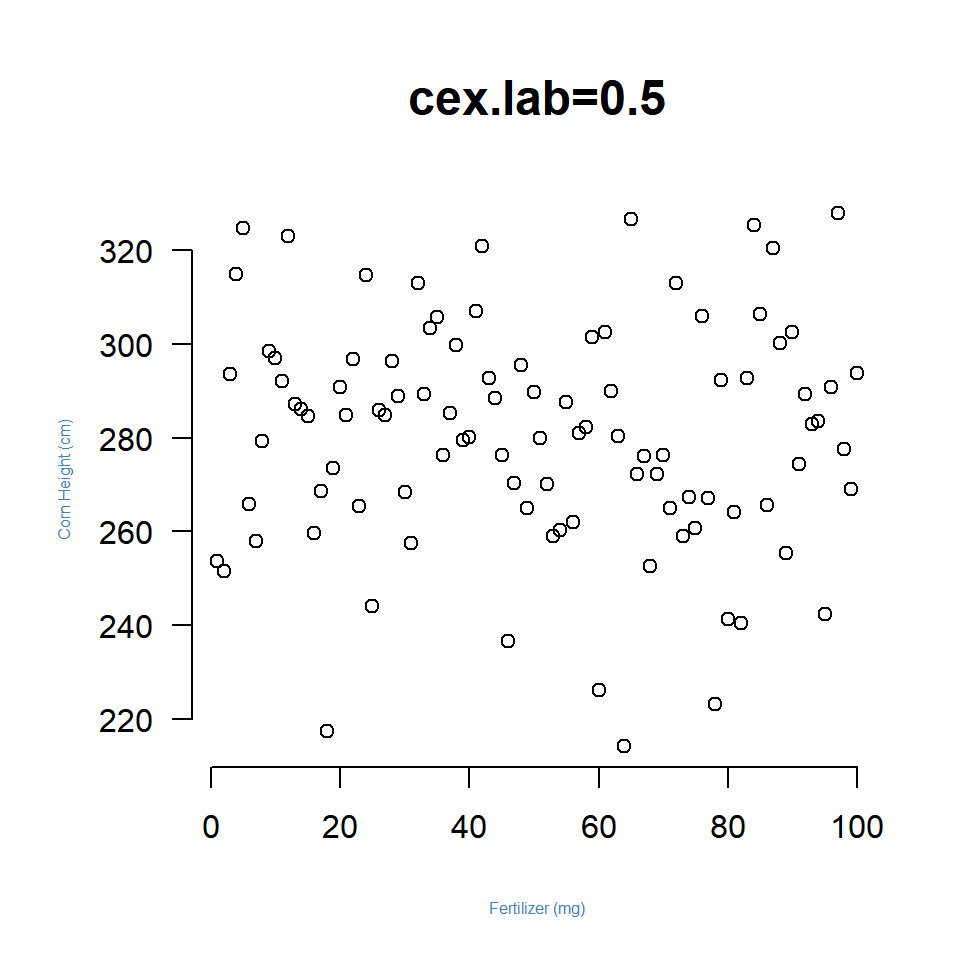
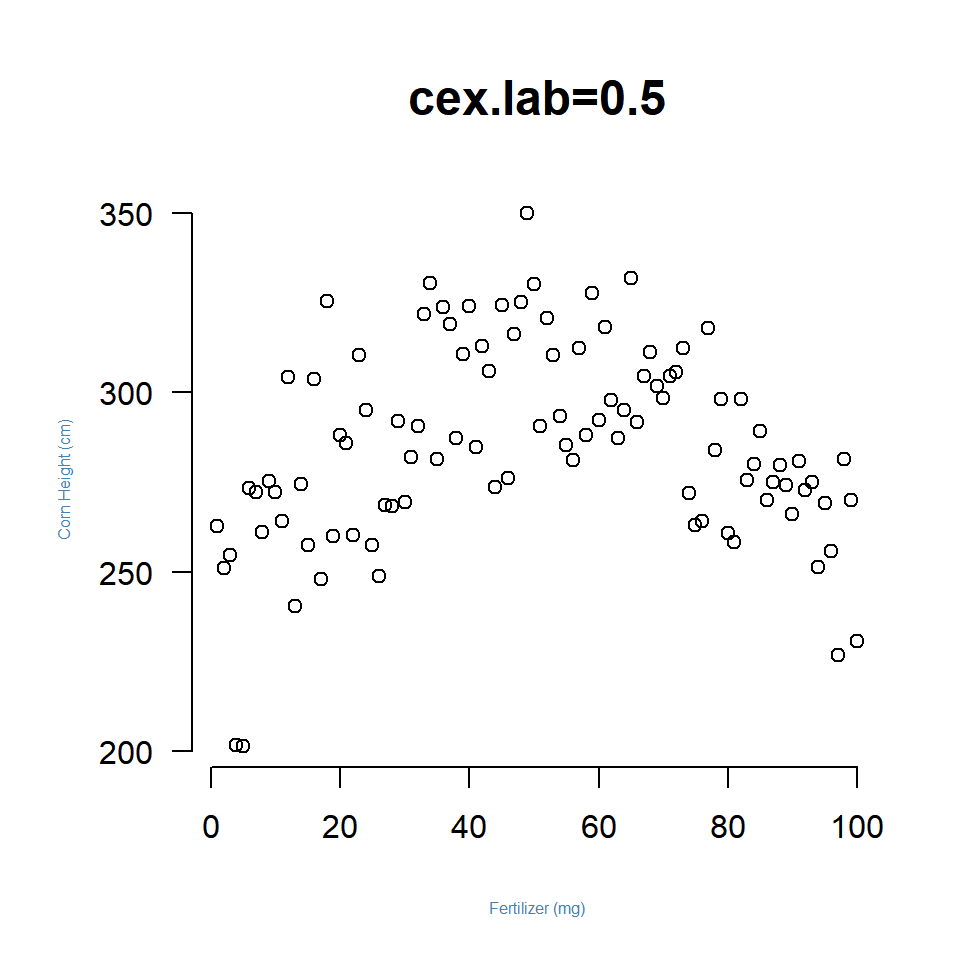
p-061

diff --git a/p-061-plot-basics.html b/p-061-plot-basics.html
@@ -291,64 +291,64 @@ $(document).ready(function () {
 </thead>
 <tbody>
 <tr class="odd">
-<td align="center">15</td>
-<td align="center">280</td>
-<td align="center">1.08</td>
-<td align="center">B</td>
+<td align="center">30</td>
+<td align="center">289</td>
+<td align="center">0.41</td>
+<td align="center">C</td>
 </tr>
 <tr class="even">
-<td align="center">87</td>
-<td align="center">259</td>
-<td align="center">0.62</td>
+<td align="center">66</td>
+<td align="center">246</td>
+<td align="center">0.79</td>
+<td align="center">A</td>
+</tr>
+<tr class="odd">
+<td align="center">14</td>
+<td align="center">288</td>
+<td align="center">0.34</td>
+<td align="center">A</td>
+</tr>
+<tr class="even">
+<td align="center">74</td>
+<td align="center">330</td>
+<td align="center">0.71</td>
 <td align="center">B</td>
 </tr>
 <tr class="odd">
-<td align="center">65</td>
-<td align="center">280</td>
-<td align="center">0.45</td>
-<td align="center">B</td>
+<td align="center">31</td>
+<td align="center">306</td>
+<td align="center">0.31</td>
+<td align="center">C</td>
 </tr>
 <tr class="even">
-<td align="center">43</td>
-<td align="center">333</td>
+<td align="center">39</td>
+<td align="center">295</td>
+<td align="center">0.78</td>
+<td align="center">B</td>
+</tr>
+<tr class="odd">
+<td align="center">99</td>
+<td align="center">240</td>
 <td align="center">0.15</td>
 <td align="center">C</td>
 </tr>
-<tr class="odd">
-<td align="center">50</td>
-<td align="center">301</td>
-<td align="center">0.32</td>
-<td align="center">A</td>
-</tr>
 <tr class="even">
-<td align="center">46</td>
-<td align="center">283</td>
-<td align="center">0.53</td>
+<td align="center">51</td>
+<td align="center">306</td>
+<td align="center">0.23</td>
 <td align="center">C</td>
 </tr>
 <tr class="odd">
-<td align="center">10</td>
-<td align="center">273</td>
-<td align="center">0.44</td>
-<td align="center">A</td>
-</tr>
-<tr class="even">
-<td align="center">2</td>
-<td align="center">272</td>
-<td align="center">0.71</td>
-<td align="center">A</td>
-</tr>
-<tr class="odd">
-<td align="center">13</td>
-<td align="center">283</td>
-<td align="center">0.81</td>
+<td align="center">58</td>
+<td align="center">287</td>
+<td align="center">0.06</td>
 <td align="center">C</td>
 </tr>
 <tr class="even">
-<td align="center">19</td>
-<td align="center">290</td>
-<td align="center">0.34</td>
-<td align="center">A</td>
+<td align="center">40</td>
+<td align="center">317</td>
+<td align="center">0.35</td>
+<td align="center">C</td>
 </tr>
 </tbody>
 </table>
@@ -366,7 +366,7 @@ eyJsYW5ndWFnZSI6InIiLCJwcmVfZXhlcmNpc2VfY29kZSI6InNvdXJjZSggXCJodHRwczovL3Jhdy5n
 <h2><span class="header-section-number">1.2</span> The Default Scatterplot</h2>
 <p>The default <strong>plot()</strong> function requires an x-variable and y-variable and will create a scatterplot, adding axes and a title:</p>
 <pre class="r"><code>plot( x=fertilizer, y=corn.height )</code></pre>
-<p><img src="p-061-plot-basics_files/figure-html/unnamed-chunk-10-1.png" width="960" /></p>
+<p><img src="p-061-plot-basics_files/figure-html/unnamed-chunk-11-1.png" width="960" /></p>
 <p>Ok, so let’s improve upon this a bit. You can use the following arguments to customize the plot:</p>
 </div>
 <div id="titles" class="section level2">
@@ -378,7 +378,7 @@ eyJsYW5ndWFnZSI6InIiLCJwcmVfZXhlcmNpc2VfY29kZSI6InNvdXJjZSggXCJodHRwczovL3Jhdy5n
       ylab=&quot;Corn Height (cm)&quot;,
       main=&quot;Relationship Between Fertilizer Intensity and Corn Growth&quot;    
     )</code></pre>
-<p><img src="p-061-plot-basics_files/figure-html/unnamed-chunk-11-1.png" width="960" /></p>
+<p><img src="p-061-plot-basics_files/figure-html/unnamed-chunk-12-1.png" width="960" /></p>
 <p>We can also change their size with <strong>cex.lab=</strong> to control the size of the axes labels, and <strong>cex.main=</strong> to control the size of the title.</p>
 <p>Note that all of the <strong>cex</strong> arguments are aspect ratios, meaning that the default value of 1 represents 100% and all other argument values are in relation to this default. A value of 2 means to increase the title to 200% of the size, an argument of 0.5 shrinks the title to half the original size.</p>
 <pre class="r"><code>plot( 
@@ -389,7 +389,7 @@ eyJsYW5ndWFnZSI6InIiLCJwcmVfZXhlcmNpc2VfY29kZSI6InNvdXJjZSggXCJodHRwczovL3Jhdy5n
       cex.lab=2,               # double the size of the axis labels
       col.lab=&quot;steelblue&quot;      # change color of axis labels
     )</code></pre>
-<p><img src="p-061-plot-basics_files/figure-html/unnamed-chunk-13-1.png" width="480" /><img src="p-061-plot-basics_files/figure-html/unnamed-chunk-13-2.png" width="480" /><img src="p-061-plot-basics_files/figure-html/unnamed-chunk-13-3.png" width="480" /></p>
+<p><img src="p-061-plot-basics_files/figure-html/unnamed-chunk-14-1.png" width="480" /><img src="p-061-plot-basics_files/figure-html/unnamed-chunk-14-2.png" width="480" /><img src="p-061-plot-basics_files/figure-html/unnamed-chunk-14-3.png" width="480" /></p>
 </div>
 <div id="type-of-plot" class="section level2">
 <h2><span class="header-section-number">1.4</span> Type of Plot</h2>
@@ -411,12 +411,12 @@ eyJsYW5ndWFnZSI6InIiLCJwcmVfZXhlcmNpc2VfY29kZSI6InNvdXJjZSggXCJodHRwczovL3Jhdy5n
       col.axis=&quot;gray60&quot;,
       frame.plot=F
     )</code></pre>
-<p><img src="p-061-plot-basics_files/figure-html/unnamed-chunk-15-1.png" width="960" /></p>
+<p><img src="p-061-plot-basics_files/figure-html/unnamed-chunk-16-1.png" width="960" /></p>
 </div>
 <div id="shape-of-points" class="section level2">
 <h2><span class="header-section-number">1.5</span> Shape of Points</h2>
 <p>The argument <strong>pch</strong> determines the shape of the plot points. The numeric values 0 to 25 represent different default shapes. We can also use any number, letter, or symbol as a plotting shape.</p>
-<p><img src="p-061-plot-basics_files/figure-html/unnamed-chunk-16-1.png" width="960" /></p>
+<p><img src="p-061-plot-basics_files/figure-html/unnamed-chunk-17-1.png" width="960" /></p>
 <p>Note that shapes 0 to 14 are hollow, 15 to 20 are solid, and 21 to 25 can also plot a background color specified by the <strong>bg=</strong> argument.</p>
 <pre class="r"><code>plot( 
       x=fertilizer, y=corn.height,
@@ -426,7 +426,7 @@ eyJsYW5ndWFnZSI6InIiLCJwcmVfZXhlcmNpc2VfY29kZSI6InNvdXJjZSggXCJodHRwczovL3Jhdy5n
       main=&quot;pch=23&quot;, cex.main=1.5,
       pch=23, col=&quot;red&quot;, bg=&quot;green&quot;
     )</code></pre>
-<p><img src="p-061-plot-basics_files/figure-html/unnamed-chunk-17-1.png" width="960" /></p>
+<p><img src="p-061-plot-basics_files/figure-html/unnamed-chunk-18-1.png" width="960" /></p>
 </div>
 <div id="size-of-points" class="section level2">
 <h2><span class="header-section-number">1.6</span> Size of Points</h2>
@@ -440,7 +440,7 @@ eyJsYW5ndWFnZSI6InIiLCJwcmVfZXhlcmNpc2VfY29kZSI6InNvdXJjZSggXCJodHRwczovL3Jhdy5n
       main=&quot;cex=2&quot;, cex.main=2,
       frame.plot=FALSE
     )</code></pre>
-<p><img src="p-061-plot-basics_files/figure-html/unnamed-chunk-19-1.png" width="480" /><img src="p-061-plot-basics_files/figure-html/unnamed-chunk-19-2.png" width="480" /><img src="p-061-plot-basics_files/figure-html/unnamed-chunk-19-3.png" width="480" /></p>
+<p><img src="p-061-plot-basics_files/figure-html/unnamed-chunk-20-1.png" width="480" /><img src="p-061-plot-basics_files/figure-html/unnamed-chunk-20-2.png" width="480" /><img src="p-061-plot-basics_files/figure-html/unnamed-chunk-20-3.png" width="480" /></p>
 <p>The <strong>cex=</strong> argument is also useful for incorporating a third numeric variable into the analysis. For example, perhaps we want to include the average moisture levels of the soil for each field. When we use a numeric vector like this with the <strong>cex=</strong> argument, instead of a single constant, the plot will adjust the size of observation based upon its measured moisture level. Since moisture values are between 0 and 1, I have scaled them by 3 to ensure the points are large enough to see.</p>
 <pre class="r"><code>plot( 
       x=fertilizer, y=corn.height,
@@ -451,7 +451,7 @@ eyJsYW5ndWFnZSI6InIiLCJwcmVfZXhlcmNpc2VfY29kZSI6InNvdXJjZSggXCJodHRwczovL3Jhdy5n
       ylab=&quot;Corn Height (cm)&quot;,
       main=&quot;Relationship Between Fertilizer Intensity and Corn Growth&quot;
     )</code></pre>
-<p><img src="p-061-plot-basics_files/figure-html/unnamed-chunk-20-1.png" width="960" /></p>
+<p><img src="p-061-plot-basics_files/figure-html/unnamed-chunk-21-1.png" width="960" /></p>
 </div>
 <div id="colors" class="section level2">
 <h2><span class="header-section-number">1.7</span> Colors</h2>
@@ -465,7 +465,7 @@ eyJsYW5ndWFnZSI6InIiLCJwcmVfZXhlcmNpc2VfY29kZSI6InNvdXJjZSggXCJodHRwczovL3Jhdy5n
       main=&quot;Relationship Between Fertilizer Intensity and Corn Growth&quot;,
       frame.plot=FALSE
     )</code></pre>
-<p><img src="p-061-plot-basics_files/figure-html/unnamed-chunk-21-1.png" width="960" /></p>
+<p><img src="p-061-plot-basics_files/figure-html/unnamed-chunk-22-1.png" width="960" /></p>
 <p>In the example above we specified a single color for all of our corn heights. If we want to incorporate a third categorical variable in our analysis, we can use a factor in our dataset as the value we pass to the <strong>col=</strong> argument. For example, perhaps we want to indicate which farm each field belongs to in the graph.</p>
 <pre class="r"><code>plot( 
       x=fertilizer, y=corn.height,
@@ -476,7 +476,7 @@ eyJsYW5ndWFnZSI6InIiLCJwcmVfZXhlcmNpc2VfY29kZSI6InNvdXJjZSggXCJodHRwczovL3Jhdy5n
       main=&quot;Relationship Between Fertilizer Intensity and Corn Growth&quot;,
       frame.plot=FALSE
     )</code></pre>
-<p><img src="p-061-plot-basics_files/figure-html/unnamed-chunk-22-1.png" width="960" /></p>
+<p><img src="p-061-plot-basics_files/figure-html/unnamed-chunk-23-1.png" width="960" /></p>
 <p>Note that “farms” has to be a factor in order to use it in the <strong>col=</strong> argument. In this example, the farms have labels of “A” to “C”.</p>
 <pre class="r"><code>levels( farm )</code></pre>
 <pre><code>## [1] &quot;A&quot; &quot;B&quot; &quot;C&quot;</code></pre>
@@ -497,7 +497,7 @@ plot(
       main=&quot;Relationship Between Fertilizer Intensity and Corn Growth&quot;,
       frame.plot=FALSE
     )</code></pre>
-<p><img src="p-061-plot-basics_files/figure-html/unnamed-chunk-25-1.png" width="960" /></p>
+<p><img src="p-061-plot-basics_files/figure-html/unnamed-chunk-26-1.png" width="960" /></p>
 </div>
 <div id="looking-ahead" class="section level2">
 <h2><span class="header-section-number">1.8</span> Looking Ahead</h2>
@@ -515,7 +515,7 @@ plot(
     )
 
 lines( lowess( fertilizer, corn.height ), col=&quot;darkgoldenrod2&quot;, lwd=4 )</code></pre>
-<p><img src="p-061-plot-basics_files/figure-html/unnamed-chunk-26-1.png" width="960" /></p>
+<p><img src="p-061-plot-basics_files/figure-html/unnamed-chunk-27-1.png" width="960" /></p>
 <p>In order to add narrative to your graphs, you can add points and text.</p>
 <p>The <strong>points()</strong> function operates with basically the same parameters as the <strong>plot()</strong> function. The <strong>text()</strong> function uses the same X and Y coordinates, but you also have to add an argument for the text that you want added to the plot.</p>
 <p>Let’s highlight the tallest corn stalk as an example.</p>
@@ -527,7 +527,7 @@ points( x=tallest.x, y=tallest.y, cex=3, lwd=1.5, col=&quot;firebrick4&quot; )
 text( x=tallest.x, y=tallest.y, 
       labels=&quot;Tallest Stalk&quot;, 
       pos=3, offset=1, col=&quot;firebrick4&quot; )</code></pre>
-<p><img src="p-061-plot-basics_files/figure-html/unnamed-chunk-28-1.png" width="960" /></p>
+<p><img src="p-061-plot-basics_files/figure-html/unnamed-chunk-29-1.png" width="960" /></p>
 </div>
 </div>
 
